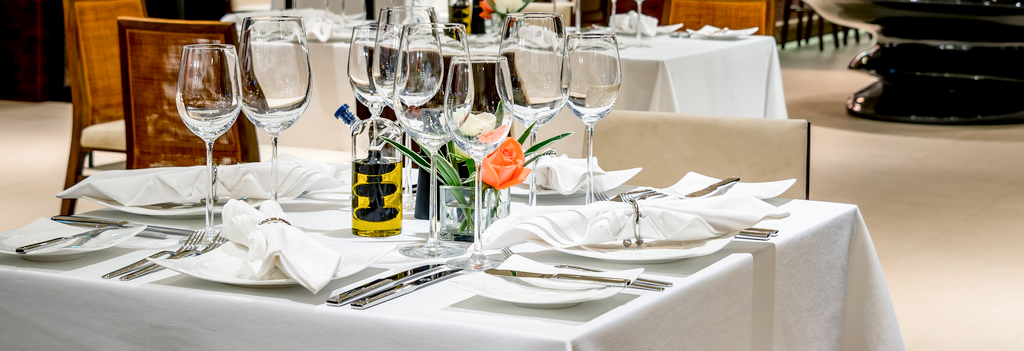
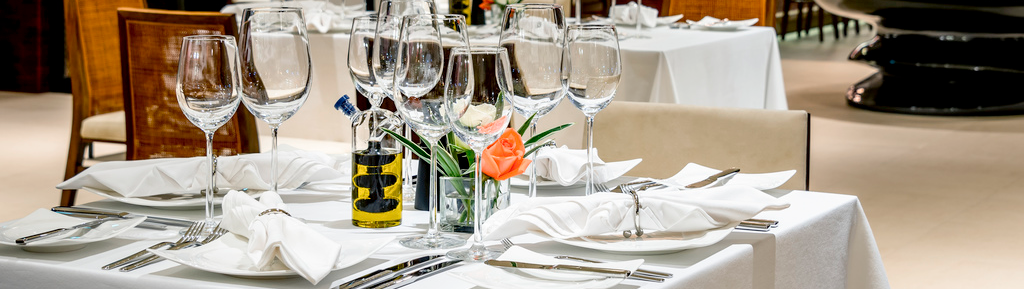
booksite 100færdig

diff --git a/fame/style.css b/fame/style.css
@@ -102,6 +102,12 @@
        font-family: Lato, sans-serif;
    }
 
+   .nav_links li:hover {
+       transform: scale(1.1);
+       filter: brightness(150%);
+
+   }
+
    .burger {
        display: none;
        cursor: pointer;
@@ -135,6 +141,23 @@
        border-radius: 15px;
 
    }
+
+   .menuknap:hover {
+       transform: scale(1.04);
+       filter: brightness(120%);
+   }
+
+   .omknap:hover {
+       transform: scale(1.04);
+       filter: brightness(120%);
+   }
+
+   .bookknap:hover {
+       transform: scale(1.04);
+       filter: brightness(120%);
+   }
+
+
 
 
    .menuknap {
@@ -343,8 +366,6 @@
 
    .kontaktinfo {
        display: flex;
-       justify-content: space-around;
-       align-items: center;
        min-height: 8vh;
        background-color: rgba(34, 29, 26, 0.88);
 
@@ -393,7 +414,101 @@
    }
 
    .nav_active {
-       transform: translateX(-10%);
+       transform: translateX(0%);
    }
 
-   @media screen and (min-width: 768px) {}
+   @media screen and (min-width: 768px) {
+
+
+
+       #liste {
+           display: grid;
+           grid-template-columns: repeat(2, 1fr);
+           grid-gap: 2vw;
+       }
+
+       .knapper {
+           display: grid;
+           grid-template-columns: repeat(3, 1fr);
+           grid-template-rows: 1fr;
+
+           grid-gap: 5vw;
+           margin-top: 35px;
+
+           margin: 30px;
+
+       }
+
+       /*
+
+       .bookknap {
+           margin: 0 20px 0 0;
+       }
+
+       .menuknap {
+           margin: 0 0 0 20px;
+       }
+*/
+
+       .knapper img {
+           max-width: 250px;
+           border-radius: 15px;
+
+
+       }
+
+
+       .menuknap {
+           grid-column: 1 / 2;
+           grid-row: 1 / 2;
+           margin-top: 0;
+
+       }
+
+       .omknap {
+           grid-column: 2 / 3;
+           grid-row: 1 / 2;
+       }
+
+
+       .bookknap {
+           grid-column: 3 / 4;
+           grid-row: 1 / 2;
+
+
+       }
+
+       .book {
+           margin: 0 100px 50px 100px;
+       }
+
+
+
+
+
+   }
+
+   @media screen and (min-width: 1280px) {
+
+
+       #liste {
+           display: grid;
+           grid-template-columns: repeat(3, 1fr);
+           grid-gap: 2vw;
+       }
+
+
+       .knapper {
+           margin-top: 30px;
+       }
+
+       .menuknap {
+
+           margin: 0 0 0 40px;
+       }
+
+       .book {
+           margin: 0 300px 50px 300px;
+       }
+
+   }

diff --git a/fame/index.html b/fame/index.html
@@ -40,8 +40,15 @@
     <main>
 
         <div id="splash">
-            <img src="italien/splash/splash1.png" alt="splash">
 
+            <picture>
+
+                <source media="(min-width: 1280px)" srcset="italien/splash/splash3.png">
+
+                <source media="(min-width: 768px)" srcset="italien/splash/splash2.png">
+
+                <img src="italien/splash/splash1.png" alt="splash mobile">
+            </picture>
         </div>
 
         <div class="knapper">
